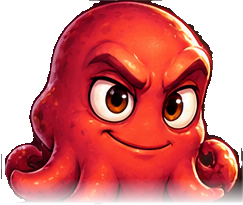
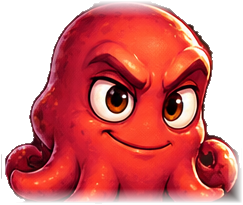
fix(octo-vault): clean up the octopus captain
Coat worn over the body with its collar, soft cuts on tentacles and hat,
filled grin, light-only glows, chest beside him on Big Win, no floating
earring. Smoother layer edges. Adds captain.html, a stand to view him alone.

diff --git a/games/octo-vault/src/config/character.config.ts b/games/octo-vault/src/config/character.config.ts
@@ -31,11 +31,10 @@ const tentacle = (
   }) as const;
 
 const layers = {
-  glow_gold: { pivot: at(53, 76), position: at(122, 150), scale: 3, alpha: 0, blendMode: 'add' },
+  glow_gold: { pivot: at(47, 52), position: at(122, 130), scale: 3.2, alpha: 0, blendMode: 'add' },
   body: { pivot: at(122, 250) },
   // Behind the body, back to front: two tentacles rising behind the head, the others spreading
-  // from under the coat, the coat and the shadow the head casts on it. The body's art fades out
-  // at the bottom, so the head sits in the coat.
+  // from under the coat.
   tentacle_1: tentacle(at(25, 165), at(62, 212), -40, 0.8),
   tentacle_3: tentacle(at(165, 160), at(182, 205), 15, 0.8, { mirror: true }),
   tentacle_7: tentacle(at(8, 115), at(70, 232), -8, 0.85, { mirror: true }),
@@ -44,10 +43,11 @@ const layers = {
   tentacle_4: tentacle(at(149, 168), at(168, 262), 45, 0.8, { mirror: true }),
   tentacle_8: tentacle(at(8, 125), at(70, 268), 8, 0.95, { mirror: true }),
   tentacle_6: tentacle(at(15, 160), at(175, 270), -6, 0.95),
-  coat: { parent: 'body', behind: true, pivot: at(127, 12), position: at(124, 128) },
-  shadow: { parent: 'body', behind: true, pivot: at(85, 35), position: at(125, 185) },
-  compass: { parent: 'body', pivot: at(45, 8), position: at(200, 228), scale: 0.32 },
-  earring: { parent: 'body', pivot: at(30, 10), position: at(223, 108), scale: 0.33 },
+  // In front: the coat is worn over the lower body, its open neck under the chin, with the
+  // compass hanging from the belt.
+  coat: { parent: 'body', pivot: at(127, 0), position: at(122, 150), scale: 1.2 },
+  coat_collar: { parent: 'body', pivot: at(72, 20), position: at(126, 178), scale: 1.05 },
+  compass: { parent: 'body', pivot: at(45, 8), position: at(186, 250), scale: 0.4 },
   mouth_grin: { parent: 'body', pivot: at(54, 38), position: at(138, 145), scale: 0.95, alpha: 0 },
   eyes_angry: { parent: 'body', pivot: at(61, 42), position: at(143, 98), scale: 1.22, alpha: 0 },
   // One closed eye, mirrored for the other: the face is turned, so the right eye is smaller.
@@ -73,8 +73,8 @@ const layers = {
     rotation: deg(-6),
     scale: 0.78,
   },
-  // Big Win: the treasure at the captain's feet, coins and sparks flying.
-  chest: { pivot: at(91, 150), position: at(122, 318), scale: 0.62, alpha: 0 },
+  // Big Win: the treasure at the captain's feet, beside the belt, coins and sparks flying.
+  chest: { pivot: at(89, 145), position: at(30, 330), scale: 0.7, alpha: 0 },
   coins: { pivot: at(67, 68), position: at(122, 250), scale: 0.7, alpha: 0 },
   coin_trail: { pivot: at(73, 74), position: at(215, 150), scale: 0.9, alpha: 0, blendMode: 'add' },
   sparkles: { pivot: at(173, 80), position: at(122, 140), scale: 1.05, alpha: 0, blendMode: 'add' },

diff --git a/games/octo-vault/src/dev/captainPreview.ts b/games/octo-vault/src/dev/captainPreview.ts
@@ -1,0 +1,56 @@
+// Dev stand: the octopus captain alone, large, with a button per animation. `npm run dev`, then /captain.html.
+import { Application, Assets, Graphics, type Texture } from 'pixi.js';
+import { buildLayeredCharacter, CharacterActor } from 'slot-sdk';
+import { captainAlias, captainPictures, characterConfig } from '../config/character.config';
+import { octopusAnimations } from '../features/character/octopusAnimations';
+
+const app = new Application();
+await app.init({ resizeTo: window, background: '#2a3440', antialias: true });
+document.body.appendChild(app.canvas);
+await Assets.load(
+  captainPictures.map((picture) => ({
+    alias: captainAlias(picture),
+    src: `assets/captain/${picture}.png`,
+  })),
+);
+const { view, parts } = buildLayeredCharacter({
+  layers: characterConfig.layers,
+  origin: characterConfig.origin,
+  texture: (alias) => Assets.get<Texture>(alias),
+});
+const actor = new CharacterActor({
+  view,
+  parts,
+  animations: octopusAnimations,
+  ticker: app.ticker,
+  mixMs: characterConfig.mixMs,
+});
+const ground = new Graphics().rect(-400, 0, 800, 2).fill('#ffffff55');
+app.stage.addChild(ground, view);
+const place = (): void => {
+  const scale = Math.min(app.screen.width / 520, app.screen.height / 560);
+  view.scale.set(scale);
+  view.position.set(app.screen.width / 2, app.screen.height * 0.82);
+  ground.position.copyFrom(view.position);
+};
+place();
+window.addEventListener('resize', place);
+
+const params = new URLSearchParams(location.search);
+const bar = document.getElementById('bar') ?? document.body;
+for (const name of actor.animations) {
+  const button = document.createElement('button');
+  button.textContent = name;
+  button.onclick = () => {
+    void actor.play(name, { loop: true });
+  };
+  bar.appendChild(button);
+}
+void actor.play(params.get('anim') ?? 'idle', { loop: true });
+// Freeze at a moment for screenshots: ?anim=win&at=450
+const at = params.get('at');
+if (at) {
+  setTimeout(() => {
+    app.ticker.stop();
+  }, Number(at));
+}

diff --git a/games/octo-vault/src/features/character/octopusAnimations.ts b/games/octo-vault/src/features/character/octopusAnimations.ts
@@ -61,7 +61,6 @@ const idle: Animation = {
           scaleY: 1 + wave(t, d, 1, 0.018),
         },
         hat: { rotation: wave(t, d, 1, 0.025, 0.3) },
-        earring: { rotation: wave(t, d, 2, 0.12) },
         compass: { rotation: wave(t, d, 1, 0.1, 0.4) },
       },
       sway((phase) => wave(t, d, 1, 0.045, phase)),
@@ -82,7 +81,6 @@ const spin: Animation = {
           rotation: wave(t, d, 1, 0.02),
         },
         hat: { rotation: wave(t, d, 2, 0.035) },
-        earring: { rotation: wave(t, d, 4, 0.2) },
         compass: { rotation: wave(t, d, 2, 0.18) },
       },
       sway((phase) => wave(t, d, 2, 0.08, phase)),
@@ -130,14 +128,6 @@ const grab: Animation = {
       {
         body: { rotation: lean(0.06), x: lean(6) },
         hat: { rotation: lean(-0.06) },
-        earring: {
-          rotation: keys(t, [
-            [0, 0],
-            [180, -0.3],
-            [450, 0.2],
-            [700, 0],
-          ]),
-        },
       },
       sway((phase) => wave(t, this.durationMs, 1, 0.04, phase)),
       face('angry', true),
@@ -196,7 +186,6 @@ const win: Animation = {
       {
         body: { y: keys(t, winTracks.hop), scaleY: keys(t, winTracks.squash) },
         hat: { y: keys(t, winTracks.hat) },
-        earring: { rotation: wave(t, d, 3, 0.25) },
         sparkles: { alpha: keys(t, winTracks.sparkle), scaleX: size, scaleY: size },
       },
       sway((phase) => wave(t, d, 2, 0.06, phase), keys(t, winTracks.cheer)),
@@ -217,7 +206,6 @@ const bigWin: Animation = {
       {
         body: { y: hop(t, d, 2, 26), scaleY: 1 + wave(t, d, 2, 0.04, 0.25) },
         hat: { y: hop(t, d, 2, 10), rotation: wave(t, d, 2, 0.06) },
-        earring: { rotation: wave(t, d, 4, 0.3) },
         compass: { rotation: wave(t, d, 2, 0.3) },
         glow_gold: { alpha: 0.85 + wave(t, d, 2, 0.15), scaleX: 1.15 + wave(t, d, 2, 0.06) },
         sparkles: { alpha: 0.8 + wave(t, d, 4, 0.2), rotation: wave(t, d, 1, 0.06) },

diff --git a/games/octo-vault/captain.html b/games/octo-vault/captain.html
@@ -1,0 +1,32 @@
+<!doctype html>
+<html lang="en">
+  <head>
+    <meta charset="UTF-8" />
+    <title>Captain preview</title>
+    <style>
+      html,
+      body {
+        margin: 0;
+        height: 100%;
+        background: #2a3440;
+        font: 14px sans-serif;
+        color: #eee;
+      }
+      #bar {
+        position: fixed;
+        top: 8px;
+        left: 8px;
+        display: flex;
+        gap: 6px;
+        z-index: 1;
+      }
+      button {
+        padding: 6px 10px;
+      }
+    </style>
+  </head>
+  <body>
+    <div id="bar"></div>
+    <script type="module" src="./src/dev/captainPreview.ts"></script>
+  </body>
+</html>

diff --git a/CREDITS.md b/CREDITS.md
@@ -25,7 +25,7 @@ These belong to the project and have no third-party terms.
 | Background (pirate cove at sunset) | `public/assets/scene/pirate-cove.webp`                                             |                                                                                                                                |
 | Logo «Pirate's Fortune»            | `public/assets/logo.webp`                                                          |                                                                                                                                |
 
-The captain's sources stay outside `public/` and are not part of the build.
+The captain's sources stay outside `public/` and are not part of the build. To replace the art, put new layers into `art/pirate-octopus-animation/`, run `node scripts/clean-captain.mjs` and check the result on the stand `captain.html` (`npm run dev`, then `/captain.html`).
 
 ## Third-party
 
